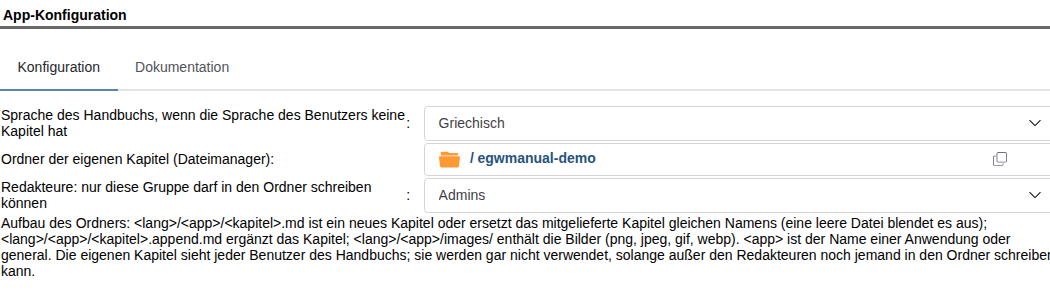
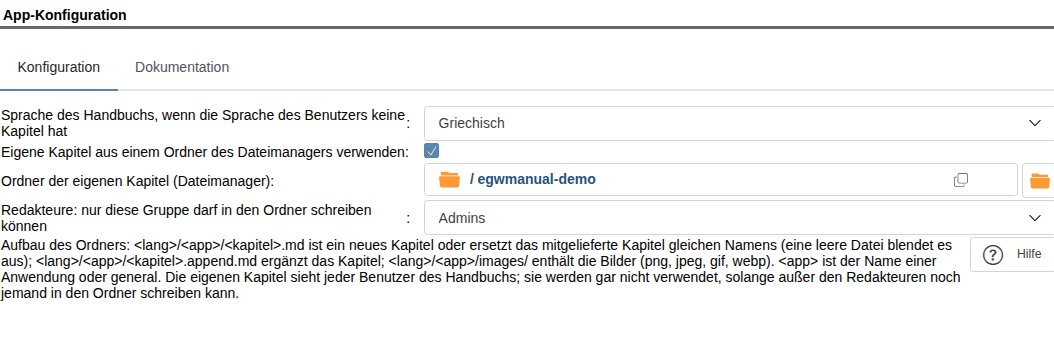
* egwmanual: custom chapters are switched on in the configuration (off by default), with folder selector and Help
- configuration: checkbox "Use custom chapters from a folder of the filemanager", off by default; while off the
  folder is neither checked nor read (Custom::folder() is null) and its fields are greyed out; switched on, a
  folder is required and has to pass the write-rights check
- folder selector (filemanager dialog) beside the path, Help button opening the chapter "Custom chapters"
- manual (en, el, de) and README describe the checkbox, configuration screenshots retaken
- ConfigTest: the switch and that the folder is only checked when switched on

Changed region(s): [[0.0, 0.18, 1.0, 0.93], [0.0, 0.03, 1.0, 0.12], [0.8838, 0.51, 0.9143, 0.54]]

diff --git a/templates/default/app.css b/templates/default/app.css
@@ -32,3 +32,7 @@ et2-html.egwmanual_body > * { max-width: 60em; }
 .egwmanual_body section.egwmanual_local { margin: 1em 0; padding: .2em 1em .6em; border-left: 4px solid var(--sl-color-warning-400, #e0a800); background: var(--sl-color-warning-50, #fffbeb); }
 .egwmanual_local_label { margin: .4em 0 0; font-size: .85em; font-weight: 600; text-transform: uppercase; letter-spacing: .03em; color: var(--sl-color-warning-800, #7a5800); }
 .egwmanual_config_help { white-space: normal; color: var(--sl-color-neutral-700, #555); }
+/* the configuration: the summary of the folder layout with the Help button beside it */
+.egwmanual_config_helprow { align-items: flex-start; gap: 1em; }
+.egwmanual_config_helprow > .egwmanual_config_help { flex: 1 1 auto; }
+.egwmanual_config_helpbutton { flex: 0 0 auto; }

diff --git a/tests/ConfigTest.php b/tests/ConfigTest.php
@@ -1,0 +1,35 @@
+<?php
+/**
+ * egwmanual - the site configuration: custom chapters are off unless switched on, and only then is the folder checked
+ *
+ * @package egwmanual
+ * @subpackage tests
+ */
+
+namespace EGroupware\Egwmanual;
+
+class ConfigTest extends \PHPUnit\Framework\TestCase
+{
+	public function testSwitchedOn() : void
+	{
+		foreach ([null, '', false, 0, '0', 'false', 'False', 'off', 'no'] as $value)
+		{
+			$this->assertFalse(Custom::switchedOn($value), json_encode($value));
+		}
+		foreach ([true, 1, '1', 'true', 'True', 'on', 'yes'] as $value)
+		{
+			$this->assertTrue(Custom::switchedOn($value), json_encode($value));
+		}
+	}
+
+	/**
+	 * Switched off, the folder is not looked at: neither checked nor complained about
+	 */
+	public function testFolderOnlyCheckedWhenSwitchedOn() : void
+	{
+		$this->assertNull(Hooks::config_validate(['location' => 'config_validate', 'custom_folder' => 'relative']));
+		$this->assertNull(Hooks::config_validate(['location' => 'config_validate', 'custom_enabled' => '', 'custom_folder' => '/a/../b']));
+		$this->assertMatchesRegularExpression('/folder/i', (string)Hooks::config_validate(['location' => 'config_validate', 'custom_enabled' => 'true']));
+		$this->assertMatchesRegularExpression('/absolute/i', (string)Hooks::config_validate(['location' => 'config_validate', 'custom_enabled' => 'true', 'custom_folder' => 'relative']));
+	}
+}

diff --git a/src/Custom.php b/src/Custom.php
@@ -76,13 +76,26 @@ class Custom
 	/**
 	 * The folder of the site configuration, normalised; null if none or not an absolute path
 	 */
+	/**
+	 * The folder of the site configuration, normalised; null if the custom chapters are switched off (the default),
+	 * no folder is set or it is not an absolute path
+	 */
 	public function folder() : ?string
 	{
 		if ($this->folder === null)
 		{
-			$this->folder = (string)(Api\Config::read(Manual::APP)['custom_folder'] ?? '');
+			$config = Api\Config::read(Manual::APP);
+			$this->folder = self::switchedOn($config['custom_enabled'] ?? null) ? (string)($config['custom_folder'] ?? '') : '';
 		}
 		return self::normalise($this->folder);
+	}
+
+	/**
+	 * The checkbox "Use custom chapters": off unless it was ticked
+	 */
+	public static function switchedOn($value) : bool
+	{
+		return !empty($value) && !in_array(strtolower((string)$value), ['false', '0', 'off', 'no'], true);
 	}
 
 	public static function normalise(string $folder) : ?string

diff --git a/src/Hooks.php b/src/Hooks.php
@@ -133,9 +133,14 @@ class Hooks
 		{
 			$errors[] = lang('The editors have to be a group');
 		}
-		if (trim((string)($data['custom_folder'] ?? '')) !== '')
+		// the folder only counts while the custom chapters are switched on (off by default)
+		if (Custom::switchedOn($data['custom_enabled'] ?? null))
 		{
-			if (($folder = Custom::normalise((string)$data['custom_folder'])) === null)
+			if (trim((string)($data['custom_folder'] ?? '')) === '')
+			{
+				$errors[] = lang('The custom chapters need a folder');
+			}
+			elseif (($folder = Custom::normalise((string)$data['custom_folder'])) === null)
 			{
 				$errors[] = lang('The folder has to be an absolute path');
 			}

diff --git a/doc/manual/el/01-manual-custom-chapters.md b/doc/manual/el/01-manual-custom-chapters.md
@@ -17,17 +17,19 @@
    Ο φάκελος και ό,τι περιέχει πρέπει να ανήκουν σε συντάκτη ή στον root. Κανένας άλλος χρήστης ή ομάδα δεν επιτρέπεται
    να γράφει σε αυτόν. Αυτό ισχύει για τα δικαιώματα του φακέλου και για τα εκτεταμένα δικαιώματα (ACL) του φακέλου ή
    ενός φακέλου πάνω από αυτόν.
-3. Ανοίξτε **Διαχειριστής › Εγχειρίδιο › Διαμόρφωση εφαρμογής** και συμπληρώστε τα πεδία:
+3. Ανοίξτε **Διαχειριστής › Εγχειρίδιο › Διαμόρφωση εφαρμογής**, επιλέξτε **Χρήση δικών σας κεφαλαίων από φάκελο του
+   Διαχειριστή αρχείων** και συμπληρώστε τα πεδία:
 
 ![Η διαμόρφωση του εγχειριδίου](images/egwmanual-config.png)
 
 | Πεδίο | Τι συμπληρώνετε |
 |---|---|
+| Χρήση δικών σας κεφαλαίων από φάκελο του Διαχειριστή αρχείων | Επιλέξτε το. Από προεπιλογή είναι ανενεργό. Τότε ο φάκελος δεν ελέγχεται ούτε διαβάζεται, και τα δύο πεδία του είναι γκρίζα. |
 | Γλώσσα του εγχειριδίου όταν η γλώσσα του χρήστη δεν έχει κεφάλαια | Τη γλώσσα στην οποία είναι γραμμένα τα περισσότερα κεφάλαια. |
 | Φάκελος των δικών σας κεφαλαίων (διαχείριση αρχείων) | Τον φάκελο του βήματος 1, για παράδειγμα `/manual`. |
 | Συντάκτες: μόνο αυτή η ομάδα επιτρέπεται να γράφει στον φάκελο | Την ομάδα των συντακτών. Κενό σημαίνει Admins. |
 
-Οι ρυθμίσεις αποθηκεύονται μόνο αν ο φάκελος περάσει τον έλεγχο του βήματος 2. Το μήνυμα αναφέρει κάθε αρχείο ή φάκελο
+Όταν η επιλογή είναι ενεργή, οι ρυθμίσεις αποθηκεύονται μόνο αν ο φάκελος περάσει τον έλεγχο του βήματος 2. Το μήνυμα αναφέρει κάθε αρχείο ή φάκελο
 που δεν τον περνά και τον λόγο.
 
 > Κάθε χρήστης του εγχειριδίου βλέπει όλα τα δικά σας κεφάλαια των εφαρμογών που χρησιμοποιεί, ανεξάρτητα από τα
@@ -120,6 +122,7 @@
 
 | Τι βλέπετε | Αιτία | Τι κάνετε |
 |---|---|---|
+| Κανένα δικό σας κεφάλαιο και καμία προειδοποίηση | Η επιλογή **Χρήση δικών σας κεφαλαίων από φάκελο του Διαχειριστή αρχείων** δεν είναι ενεργή. | Επιλέξτε την και αποθηκεύστε τη διαμόρφωση. |
 | Κόκκινη γραμμή στο πάνω μέρος του παραθύρου (μόνο οι διαχειριστές) | Στον φάκελο μπορεί να γράψει και κάποιος άλλος εκτός από τους συντάκτες. Όλα τα δικά σας κεφάλαια είναι απενεργοποιημένα. | Διορθώστε τα δικαιώματα που αναφέρει η γραμμή. Τα κεφάλαια επιστρέφουν μέσα σε πέντε λεπτά, αμέσως αν αποθηκεύσετε ξανά τη διαμόρφωση. |
 | Λείπει ένα κεφάλαιο | Λάθος φάκελος (`<lang>/<app>/`), όνομα με κεφαλαία, κενά ή ελληνικά γράμματα, ή ο χρήστης δεν έχει την εφαρμογή. | Μετονομάστε ή μετακινήστε το αρχείο. |
 | Ένα αντικατεστημένο κεφάλαιο δείχνει το αρχικό κείμενο | Το αρχείο είναι στον φάκελο άλλης εφαρμογής από αυτή του αρχικού κεφαλαίου. | Μετακινήστε το στον φάκελο της εφαρμογής του κεφαλαίου. |

diff --git a/doc/manual/de/01-manual-custom-chapters.md b/doc/manual/de/01-manual-custom-chapters.md
@@ -17,17 +17,19 @@ Mit eigenen Kapiteln können Sie:
    Der Ordner und alles darin muss einem Redakteur oder root gehören. Kein anderer Benutzer und keine andere Gruppe darf
    hineinschreiben können, weder über die Rechte des Ordners noch über eine erweiterte ACL des Ordners oder eines
    Ordners darüber.
-3. Öffnen Sie **Admin › Handbuch › App-Konfiguration** und füllen Sie aus:
+3. Öffnen Sie **Admin › Handbuch › App-Konfiguration**, kreuzen Sie **Eigene Kapitel aus einem Ordner des Dateimanagers
+   verwenden** an und füllen Sie aus:
 
 ![Die Konfiguration des Handbuchs](images/egwmanual-config.png)
 
 | Feld | Was Sie eintragen |
 |---|---|
+| Eigene Kapitel aus einem Ordner des Dateimanagers verwenden | Ankreuzen. Standardmäßig ist es aus: Dann wird der Ordner weder geprüft noch gelesen, und seine beiden Felder sind ausgegraut. |
 | Sprache des Handbuchs, wenn die Sprache des Benutzers keine Kapitel hat | Die Sprache, in der die meisten Kapitel geschrieben sind. |
 | Ordner der eigenen Kapitel (Dateimanager) | Den Ordner aus Schritt 1, zum Beispiel `/manual`. |
 | Redakteure: nur diese Gruppe darf in den Ordner schreiben können | Die Gruppe der Redakteure. Leer bedeutet Admins. |
 
-Die Konfiguration wird nur gespeichert, wenn der Ordner die Prüfung aus Schritt 2 besteht. Die Meldung nennt jede
+Eingeschaltet wird die Konfiguration nur gespeichert, wenn der Ordner die Prüfung aus Schritt 2 besteht. Die Meldung nennt jede
 Datei und jeden Ordner, die sie nicht bestehen, und den Grund.
 
 > Jeder Benutzer des Handbuchs sieht alle eigenen Kapitel der Anwendungen, die er benutzen darf, unabhängig von seinen
@@ -122,6 +124,7 @@ Ein solcher Block kann auch in einem eigenen Kapitel stehen. Er wird nur für Be
 
 | Was Sie sehen | Grund | Was Sie tun |
 |---|---|---|
+| Gar kein eigenes Kapitel, und keine Warnung | **Eigene Kapitel aus einem Ordner des Dateimanagers verwenden** ist nicht angekreuzt. | Ankreuzen und die Konfiguration speichern. |
 | Eine rote Zeile oben im Fenster des Handbuchs (nur Administratoren) | Außer den Redakteuren kann noch jemand in den Ordner schreiben. Alle eigenen Kapitel sind abgeschaltet. | Korrigieren Sie die Rechte, die die Zeile nennt. Die Kapitel erscheinen nach spätestens fünf Minuten wieder, sofort nach erneutem Speichern der Konfiguration. |
 | Ein Kapitel fehlt | Falscher Ordner (`<lang>/<app>/`), ein Name mit Großbuchstaben, Leerzeichen oder Umlauten, oder der Benutzer hat die Anwendung nicht. | Benennen Sie die Datei um oder verschieben Sie sie. |
 | Ein ersetztes Kapitel zeigt den ursprünglichen Text | Die Datei liegt im Ordner einer anderen Anwendung als das ursprüngliche Kapitel. | Verschieben Sie sie in den Ordner der Anwendung des Kapitels. |

diff --git a/doc/manual/en/01-manual-custom-chapters.md b/doc/manual/en/01-manual-custom-chapters.md
@@ -16,17 +16,18 @@ With custom chapters you can:
 2. Give write access to this folder **only** to the editors of the manual (by default the group Admins). The folder
    and everything in it has to belong to an editor or to root. No other user or group may write into it, neither
    through the rights of the folder nor through an extended ACL of the folder or of a folder above it.
-3. Open **Admin › Manual › App configuration** and fill in:
+3. Open **Admin › Manual › App configuration**, tick **Use custom chapters from a folder of the filemanager** and fill in:
 
 ![The configuration of the manual](images/egwmanual-config.png)
 
 | Field | What to enter |
 |---|---|
+| Use custom chapters from a folder of the filemanager | Tick it. It is off by default: then the folder is neither checked nor read, and its two fields are greyed out. |
 | Language of the manual when the user's own language has no chapters | The language most of your chapters are written in. |
 | Folder of the custom chapters (filemanager) | The folder of step 1, for example `/manual`. |
 | Editors: only this group may be able to write into the folder | The group of the editors. Empty means Admins. |
 
-The configuration is only saved if the folder passes the check of step 2. The message names every file or folder
+Switched on, the configuration is only saved if the folder passes the check of step 2. The message names every file or folder
 that fails it and why.
 
 > Every user of the manual sees all custom chapters of the applications he may use, whatever his rights in the
@@ -117,6 +118,7 @@ Such a block may also be used in a custom chapter. It is filled in only for user
 
 | What you see | Reason | What to do |
 |---|---|---|
+| No custom chapter at all, and no warning | **Use custom chapters from a folder of the filemanager** is not ticked. | Tick it and save the configuration. |
 | A red line at the top of the manual window (administrators only) | Somebody else than the editors can write into the folder. All custom chapters are switched off. | Fix the rights the line names. The chapters return within five minutes, at once after saving the configuration again. |
 | A chapter is missing | Wrong folder (`<lang>/<app>/`), a name with capitals, spaces or Greek letters, or the user does not have the application. | Rename or move the file. |
 | A replaced chapter shows the original text | The file is in the folder of another application than the original chapter. | Move it into the folder of the chapter's application. |

diff --git a/README.md b/README.md
@@ -39,8 +39,9 @@ names in their own language).
 
 | Setting | Meaning |
 |---|---|
+| Use custom chapters from a folder of the filemanager | Off by default: the folder is then neither checked nor read. |
 | Language of the manual when the user's own language has no chapters | Fallback language. |
-| Folder of the custom chapters (filemanager) | e.g. `/manual`; empty: no custom chapters. |
+| Folder of the custom chapters (filemanager) | e.g. `/manual`, required when switched on. |
 | Editors | The group allowed to write into that folder; empty means Admins. |
 
 Layout of the custom folder:
@@ -63,7 +64,7 @@ apply:
   adds a fixed set of tags. Raw HTML shows as text. Links may only go to other chapters, `#anchors` and
   `http(s)://` (opened with `noopener noreferrer`). Pictures come only from the application's own manual folder,
   the custom folder, or as image `data:` URLs. Pictures from other sites are dropped, so readers can't be tracked.
-- **Custom chapters are read as root** (every user of the manual sees them, whatever their filemanager rights).
+- **Custom chapters are off by default.** Switched on, they are **read as root** (every user of the manual sees them, whatever their filemanager rights).
   So the trust boundary is who can write the folder. `src/Security.php` checks it when the configuration is saved
   and again at least every 5 minutes. The folder must be a plain folder of the database filesystem (no symlink, no
   other mount). Every entry must belong to root or an editor, may not be world-writable, may be group-writable only
